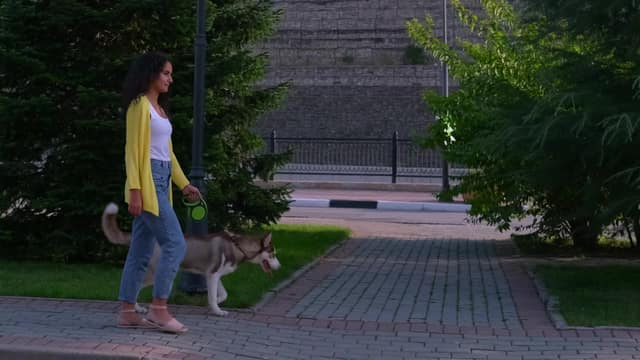
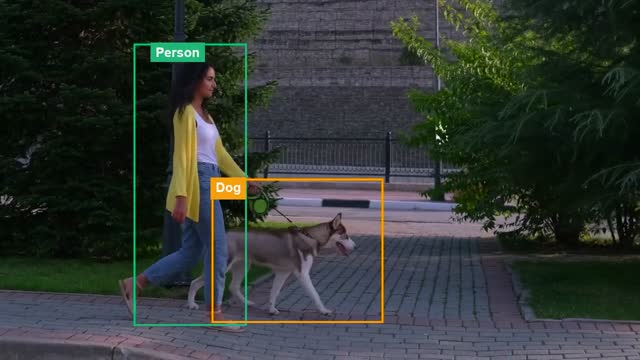
Labeling demo: auto-tracked boxes burned into the video via ffmpeg (pixel-accurate on every device)

diff --git a/index.html b/index.html
@@ -250,16 +250,6 @@
   .lab-video{border-right:1px solid var(--line)}
   .lab-stage{position:relative;background:#101613;overflow:hidden}
   .lab-stage video{display:block;width:100%;height:260px;object-fit:cover}
-  .lab-box,.lab-box2{position:absolute;border:2px dashed var(--green);border-radius:6px;
-    box-shadow:0 0 0 3px rgba(32,183,118,.12)}
-  .lab-box{left:16%;top:1%;width:12%;height:98%}
-  .lab-box2{left:28%;top:56%;width:17%;height:43%;border-color:#F59E0B;box-shadow:0 0 0 3px rgba(245,158,11,.12)}
-  .lab-box::before,.lab-box::after{content:"";position:absolute;width:8px;height:8px;background:#fff;border:2px solid var(--green)}
-  .lab-box::before{left:-6px;top:-6px}
-  .lab-box::after{right:-6px;bottom:-6px}
-  .lab-box-tag{position:absolute;left:4px;top:4px;background:var(--green);color:#fff;font-size:11px;font-weight:700;
-    border-radius:6px;padding:3px 9px;white-space:nowrap;box-shadow:0 6px 14px -6px rgba(6,78,59,.5)}
-  .lab-box-tag.t2{background:#F59E0B}
   .lab-controls{display:flex;align-items:center;gap:10px;padding:10px 14px;background:#fff}
   .lab-play{width:28px;height:28px;border-radius:50%;background:var(--green);color:#fff;display:grid;place-items:center;flex:none}
   .lab-track{position:relative;flex:1;height:5px;border-radius:5px;background:var(--line)}
@@ -278,10 +268,8 @@
   .lab-tip{font-size:12px;color:var(--muted);margin:4px 0 6px}
   .lab-submit{display:inline-flex;background:var(--green);color:#fff;font-size:13px;font-weight:600;
     border-radius:10px;padding:9px 16px;box-shadow:0 8px 20px -8px rgba(32,183,118,.55)}
-  .labdemo .ltag,.labdemo .lab-box,.labdemo .lab-box2{transition:opacity .5s var(--ease), transform .5s var(--ease)}
-  html.js .labdemo:not(.in) .ltag,html.js .labdemo:not(.in) .lab-box,html.js .labdemo:not(.in) .lab-box2{opacity:0;transform:translateY(8px)}
-  .labdemo.in .lab-box{transition-delay:.15s}
-  .labdemo.in .lab-box2{transition-delay:.45s}
+  .labdemo .ltag{transition:opacity .5s var(--ease), transform .5s var(--ease)}
+  html.js .labdemo:not(.in) .ltag{opacity:0;transform:translateY(8px)}
   .labdemo.in .t1{transition-delay:.25s}
   .labdemo.in .t2{transition-delay:.4s}
   .labdemo.in .t3{transition-delay:.55s}
@@ -456,7 +444,7 @@
     *,*::before,*::after{animation:none!important;transition:none!important}
     html{scroll-behavior:auto}
     html.js .reveal,html.js [data-stagger] > *{opacity:1;transform:none}
-    html.js .labdemo:not(.in) .ltag,html.js .labdemo:not(.in) .lab-box,html.js .labdemo:not(.in) .lab-box2{opacity:1;transform:none}
+    html.js .labdemo:not(.in) .ltag{opacity:1;transform:none}
     html.js .dash:not(.in) .bar{height:var(--h)}
     html.js .steps:not(.in)::before{transform:scaleX(1)}
   }
@@ -595,8 +583,6 @@
           <div class="lab-video">
             <div class="lab-stage">
               <video id="labVid" src="task-clip.mp4" poster="task-poster.jpg" muted loop playsinline preload="metadata" width="1280" height="720"></video>
-              <div class="lab-box"><span class="lab-box-tag">Person</span></div>
-              <div class="lab-box2"><span class="lab-box-tag t2">Dog</span></div>
             </div>
             <div class="lab-controls">
               <span class="lab-play"><svg width="11" height="11" viewBox="0 0 24 24" fill="currentColor"><path d="M7 4.5v15l13-7.5L7 4.5z"/></svg></span>
@@ -996,67 +982,12 @@
     }).observe(el);
   })();
 
-  // Example-task clip: plays only while visible, and the "Person walking" box
-  // tracks the walker. His frame position was measured second by second; the
-  // box interpolates between those keyframes from video.currentTime, mapped
-  // through the same object-fit:cover math the browser uses to draw the video.
+  // Example-task clip: the tracking boxes are burned into the footage itself
+  // (rendered frame-accurately with ffmpeg), so nothing here can drift. This
+  // only starts playback while visible and leaves the poster for reduced motion.
   (function(){
     var lv = document.getElementById("labVid");
-    if(!lv) return;
-    var stage = lv.parentElement;
-    var boxP = stage.querySelector(".lab-box");
-    var boxD = stage.querySelector(".lab-box2");
-    // [seconds, x, y, w, h] as fractions of the full 1280x720 frame,
-    // measured every half second for the woman and the husky
-    var KP = [
-      [0, .155, .11, .13, .82], [0.5, .205, .11, .13, .81], [1, .215, .11, .13, .80],
-      [1.5, .345, .09, .13, .82], [2, .375, .09, .13, .84], [2.5, .395, .09, .13, .82],
-      [3, .285, .09, .14, .84], [3.5, .335, .09, .14, .84], [4, .215, .11, .14, .84],
-      [4.5, .195, .09, .14, .84], [5, .195, .11, .14, .84], [5.5, .195, .09, .15, .86],
-      [6, .075, .09, .13, .84], [6.5, .175, .11, .13, .82], [7, .105, .11, .14, .84],
-      [7.5, .155, .11, .13, .82], [8, .095, .11, .15, .84], [8.5, .115, .11, .15, .82],
-      [9, .095, .13, .15, .82], [9.5, .115, .11, .15, .84], [10, .125, .11, .16, .84],
-      [10.5, .165, .11, .16, .84], [11, .095, .11, .16, .84], [12, .095, .11, .16, .84]
-    ];
-    var KD = [
-      [0, .275, .54, .18, .35], [0.5, .335, .55, .18, .32], [1, .375, .55, .18, .34],
-      [1.5, .425, .55, .18, .34], [2, .445, .59, .19, .34], [2.5, .485, .59, .19, .34],
-      [3, .425, .61, .20, .34], [3.5, .465, .59, .19, .34], [4, .355, .59, .21, .34],
-      [4.5, .395, .59, .21, .36], [5, .355, .61, .23, .34], [5.5, .415, .59, .21, .36],
-      [6, .235, .57, .23, .34], [6.5, .325, .57, .22, .36], [7, .275, .57, .23, .36],
-      [7.5, .335, .57, .23, .36], [8, .315, .57, .23, .36], [8.5, .355, .57, .23, .38],
-      [9, .295, .59, .23, .36], [9.5, .355, .57, .24, .38], [10, .335, .54, .25, .41],
-      [10.5, .395, .54, .25, .41], [11, .295, .54, .27, .41], [12, .295, .54, .27, .41]
-    ];
-    function rectAt(K, t){
-      var i = 1;
-      while(i < K.length - 1 && K[i][0] < t) i++;
-      var a = K[i-1], b = K[i];
-      var f = Math.min(Math.max((t - a[0]) / (b[0] - a[0]), 0), 1);
-      return [a[1]+(b[1]-a[1])*f, a[2]+(b[2]-a[2])*f, a[3]+(b[3]-a[3])*f, a[4]+(b[4]-a[4])*f];
-    }
-    function place(el, r){
-      var vw = lv.videoWidth || 1280, vh = lv.videoHeight || 720;
-      var sw = stage.clientWidth, sh = stage.clientHeight;
-      if(!sw || !sh) return;
-      var s = Math.max(sw/vw, sh/vh);
-      var dw = vw*s, dh = vh*s, ox = (sw-dw)/2, oy = (sh-dh)/2;
-      el.style.left = (ox + r[0]*dw) + "px";
-      el.style.top = (oy + r[1]*dh) + "px";
-      el.style.width = (r[2]*dw) + "px";
-      el.style.height = (r[3]*dh) + "px";
-    }
-    function tick(){
-      place(boxP, rectAt(KP, lv.currentTime));
-      place(boxD, rectAt(KD, lv.currentTime));
-      if(!lv.paused && !lv.ended) requestAnimationFrame(tick);
-    }
-    lv.addEventListener("play", function(){ requestAnimationFrame(tick); });
-    lv.addEventListener("seeked", tick);
-    lv.addEventListener("loadedmetadata", tick);
-    addEventListener("resize", tick);
-    tick();
-    if(reduceMotion) return;
+    if(!lv || reduceMotion) return;
     new IntersectionObserver(function(entries){
       entries.forEach(function(e){
         if(e.isIntersecting) lv.play().catch(function(){});